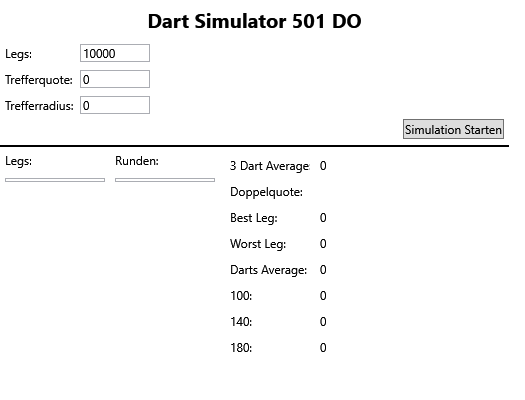
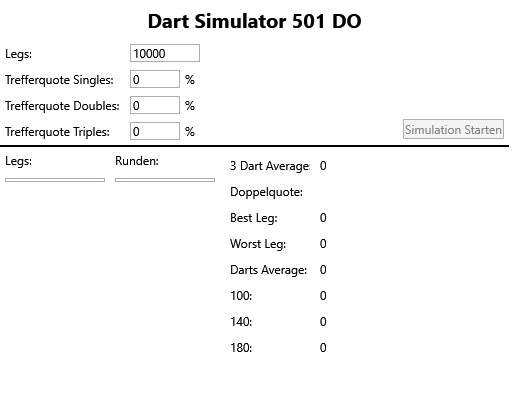
added controller, factory, tests. changed input fields

diff --git a/DartSimulator/DartSimulator/MainWindow.xaml b/DartSimulator/DartSimulator/MainWindow.xaml
@@ -16,16 +16,23 @@
 		<Grid Grid.Row="1">
 			<StackPanel Orientation="Vertical" HorizontalAlignment="Left" VerticalAlignment="Top">
 				<StackPanel Orientation="Horizontal">
-					<Label Content="Legs:" Width="80"></Label>
+					<Label Content="Legs:" Width="130"></Label>
 					<TextBox Text="{Binding Path=AmountLegs}" Width="70" HorizontalAlignment="Left" VerticalAlignment="Center"></TextBox>
 				</StackPanel>
 				<StackPanel Orientation="Horizontal">
-					<Label Content="Trefferquote:" Width="80"></Label>
-					<TextBox Text="{Binding Path=HitQuote}" Width="70" HorizontalAlignment="Left" VerticalAlignment="Center"></TextBox>
+					<Label Content="Trefferquote Singles:" Width="130"></Label>
+					<TextBox Text="{Binding Path=SingleQuote}" Width="50" HorizontalAlignment="Left" VerticalAlignment="Center"></TextBox>
+					<Label Content="%"></Label>
 				</StackPanel>
 				<StackPanel Orientation="Horizontal">
-					<Label Content="Trefferradius:" Width="80"></Label>
-					<TextBox Text="{Binding Path=HitRadius}" Width="70" HorizontalAlignment="Left" VerticalAlignment="Center"></TextBox>
+					<Label Content="Trefferquote Doubles:" Width="130"></Label>
+					<TextBox Text="{Binding Path=DoubleQuote}" Width="50" HorizontalAlignment="Left" VerticalAlignment="Center"></TextBox>
+					<Label Content="%"></Label>
+				</StackPanel>
+				<StackPanel Orientation="Horizontal">
+					<Label Content="Trefferquote Triples:" Width="130"></Label>
+					<TextBox Text="{Binding Path=TripleQuote}" Width="50" HorizontalAlignment="Left" VerticalAlignment="Center"></TextBox>
+					<Label Content="%"></Label>
 				</StackPanel>
 			</StackPanel>
 			<Button Content="Simulation Starten" Command="{Binding Path=StartCommand}" HorizontalAlignment="Right" VerticalAlignment="Bottom" Margin="5,8"></Button>
@@ -47,7 +54,7 @@
 				</StackPanel>
 				<StackPanel Orientation="Horizontal">
 					<Label Content="Doppelquote:" Width="90"></Label>
-					<Label Content="{Binding Path=DoubleQuote}"></Label>
+					<Label Content="{Binding Path=SimulatedDoubleQuote}"></Label>
 				</StackPanel>
 				<StackPanel Orientation="Horizontal">
 					<Label Content="Best Leg:" Width="90"></Label>

diff --git a/DartSimulator/DartSimulator/MainViewModel.cs b/DartSimulator/DartSimulator/MainViewModel.cs
@@ -6,6 +6,7 @@ using System.Text;
 using System.Threading.Tasks;
 using System.Windows.Input;
 using Base;
+using DartSimulator.Controller;
 
 namespace DartSimulator
 {
@@ -21,16 +22,19 @@ namespace DartSimulator
 		private int hundretFourties = 0;
 		private int hundretEighties = 0;
 		private int amountLegs = 10000;
-		private double hitQuote;
-		private double hitRadius;
+		private double singleQuote;
+		private double doubleQuote;
+		private double tripleQuote;
 		private Leg selectedLeg = null;
 		private ObservableCollection<Leg> legs = null;
-		private string doubleQuote = "";
+		private string simulatedDoubleQuote = "";
+		private readonly ISimulationController controller;
 		#endregion
 
 		#region ctors
-		public MainViewModel()
+		public MainViewModel(ISimulationController controller)
 		{
+			this.controller = controller;
 		}
 		#endregion
 
@@ -66,12 +70,14 @@ namespace DartSimulator
 				if (this.startCommand == null)
 				{
 					this.startCommand = new RelayCommand(
-						param => Start()
+						param => Start(),
+						param => CanStart()
 					);
 				}
 				return this.startCommand;
 			}
 		}
+
 		public int BestLeg
 		{
 			get
@@ -144,28 +150,40 @@ namespace DartSimulator
 				OnPropertyChanged("AmountLegs");
 			}
 		}
-		public double HitQuote
+		public double SingleQuote
 		{
 			get
 			{
-				return this.hitQuote;
+				return this.singleQuote;
 			}
 			set
 			{
-				this.hitQuote = value;
-				OnPropertyChanged("HitQuote");
+				this.singleQuote = value;
+				OnPropertyChanged("SingleQuote");
 			}
 		}
-		public double HitRadius
+		public double DoubleQuote
 		{
 			get
 			{
-				return this.hitRadius;
+				return this.doubleQuote;
 			}
 			set
 			{
-				this.hitRadius = value;
-				OnPropertyChanged("HitRadius");
+				this.doubleQuote = value;
+				OnPropertyChanged("DoubleQuote");
+			}
+		}
+		public double TripleQuote
+		{
+			get
+			{
+				return this.tripleQuote;
+			}
+			set
+			{
+				this.tripleQuote = value;
+				OnPropertyChanged("TripleQuote");
 			}
 		}
 		public Leg SelectedLeg
@@ -204,16 +222,16 @@ namespace DartSimulator
 				OnPropertyChanged("Legs");
 			}
 		}
-		public string DoubleQuote
+		public string SimulatedDoubleQuote
 		{
 			get
 			{
-				return this.doubleQuote;
+				return this.simulatedDoubleQuote;
 			}
 			set
 			{
-				this.doubleQuote = value;
-				OnPropertyChanged("DoubleQuote");
+				this.simulatedDoubleQuote = value;
+				OnPropertyChanged("SimulatedDoubleQuote");
 			}
 		}
 		#endregion
@@ -221,8 +239,12 @@ namespace DartSimulator
 		#region private methods
 		private void Start()
 		{
+			this.controller.StartSimulation();
 		}
-
+		private bool CanStart()
+		{
+			return this.SingleQuote > 0 && this.DoubleQuote > 0 && this.TripleQuote > 0;
+		}
 		#endregion
 
 		#region public methods

diff --git a/DartSimulator/DartSimulatorTests/ViewModelTests.cs b/DartSimulator/DartSimulatorTests/ViewModelTests.cs
@@ -4,7 +4,9 @@ using System.Linq;
 using System.Text;
 using System.Threading.Tasks;
 using DartSimulator;
+using DartSimulator.Controller;
 using Microsoft.VisualStudio.TestTools.UnitTesting;
+using Moq;
 using Should;
 
 namespace DartSimulatorTests
@@ -12,11 +14,20 @@ namespace DartSimulatorTests
 	[TestClass]
 	public class ViewModelTests
 	{
+		private Mock<ISimulationController> controllerMock = new Mock<ISimulationController>();
 		[TestMethod]
 		public void WhenCreatingNewViewModel_LegsShouldBeTenThousand()
 		{
-			var viewModel = new MainViewModel();
+			var viewModel = new MainViewModel(this.controllerMock.Object);
 			viewModel.AmountLegs.ShouldEqual(10000);
+		}
+
+		[TestMethod]
+		public void WhenClickSimulateButton_ThenControllerShouldGetTriggered()
+		{
+			var viewModel = new MainViewModel(this.controllerMock.Object);
+			viewModel.StartCommand.Execute(null);
+			this.controllerMock.Verify(x => x.StartSimulation(), Times.Once, "Start Simulation was not triggered");
 		}
 	}
 }

diff --git a/DartSimulator/DartSimulator/Factory/ViewModelFactory.cs b/DartSimulator/DartSimulator/Factory/ViewModelFactory.cs
@@ -1,0 +1,22 @@
+using System;
+using System.Collections.Generic;
+using System.Linq;
+using System.Text;
+using System.Threading.Tasks;
+using DartSimulator.Controller;
+
+namespace DartSimulator.Factory
+{
+	public class ViewModelFactory : IViewModelFactory
+	{
+		private readonly ISimulationController controller;
+		public ViewModelFactory()
+		{
+			this.controller = new SimulationController();
+		}
+		public MainViewModel CreateMainViewModel()
+		{
+			return new MainViewModel(this.controller);
+		}
+	}
+}

diff --git a/DartSimulator/DartSimulator/MainWindow.xaml.cs b/DartSimulator/DartSimulator/MainWindow.xaml.cs
@@ -12,6 +12,7 @@ using System.Windows.Media;
 using System.Windows.Media.Imaging;
 using System.Windows.Navigation;
 using System.Windows.Shapes;
+using DartSimulator.Factory;
 
 namespace DartSimulator
 {
@@ -23,7 +24,8 @@ namespace DartSimulator
 		public MainWindow()
 		{
 			InitializeComponent();
-			var viewModel = new MainViewModel();
+			var factory = new ViewModelFactory();
+			var viewModel = factory.CreateMainViewModel();
 			this.DataContext = viewModel;
 		}
 	}

diff --git a/DartSimulator/DartSimulatorTests/GuiTests.cs b/DartSimulator/DartSimulatorTests/GuiTests.cs
@@ -16,5 +16,16 @@ namespace DartSimulatorTests
 			var window = new MainWindow();
 			WpfApprovals.Verify(window);
 		}
+
+		[TestMethod]
+		public void CheckGuiWhenFilledValues()
+		{
+			var window = new MainWindow();
+			var viewModel = window.DataContext as MainViewModel;
+			viewModel.DoubleQuote = 20;
+			viewModel.SingleQuote = 50;
+			viewModel.TripleQuote = 10;
+			WpfApprovals.Verify(window);
+		}
 	}
 }

diff --git a/DartSimulator/DartSimulatorTests/DartBoardTests.cs b/DartSimulator/DartSimulatorTests/DartBoardTests.cs
@@ -1,14 +1,8 @@
-using System;
-using System.Collections.Generic;
-using System.Linq;
-using System.Text;
-using System.Threading.Tasks;
+using System.Linq;
 using DartSimulator;
 using Microsoft.VisualStudio.TestTools.UnitTesting;
-using Should;
 using ApprovalTests;
 using ApprovalTests.Reporters;
-using ApprovalUtilities.Utilities;
 
 namespace DartSimulatorTests
 {

diff --git a/DartSimulator/DartSimulator/Controller/SimulationController.cs b/DartSimulator/DartSimulator/Controller/SimulationController.cs
@@ -1,0 +1,16 @@
+using System;
+using System.Collections.Generic;
+using System.Linq;
+using System.Text;
+using System.Threading.Tasks;
+
+namespace DartSimulator.Controller
+{
+	public class SimulationController : ISimulationController
+	{
+		public void StartSimulation()
+		{
+			throw new NotImplementedException();
+		}
+	}
+}

diff --git a/DartSimulator/DartSimulator/Factory/IViewModelFactory.cs b/DartSimulator/DartSimulator/Factory/IViewModelFactory.cs
@@ -1,0 +1,13 @@
+using System;
+using System.Collections.Generic;
+using System.Linq;
+using System.Text;
+using System.Threading.Tasks;
+
+namespace DartSimulator.Factory
+{
+	public interface IViewModelFactory
+	{
+		MainViewModel CreateMainViewModel();
+	}
+}

diff --git a/DartSimulator/DartSimulator/Controller/ISimulationController.cs b/DartSimulator/DartSimulator/Controller/ISimulationController.cs
@@ -1,0 +1,13 @@
+using System;
+using System.Collections.Generic;
+using System.Linq;
+using System.Text;
+using System.Threading.Tasks;
+
+namespace DartSimulator.Controller
+{
+	public interface ISimulationController
+	{
+		void StartSimulation();
+	}
+}
